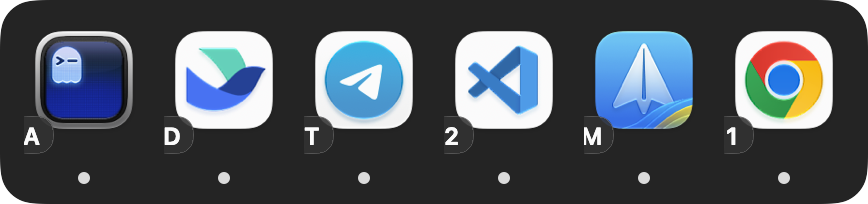
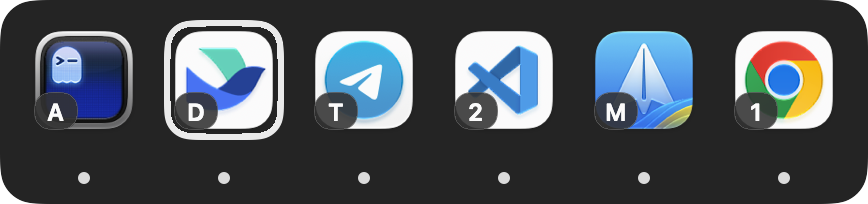
Fix App Bar key badges being clipped

diff --git a/Sources/AppBar/AppBarItemView.swift b/Sources/AppBar/AppBarItemView.swift
@@ -33,6 +33,7 @@ final class AppBarItemView: NSView {
         self.slotKey = slot.key
         super.init(frame: .zero)
         wantsLayer = true
+        layer?.masksToBounds = false
 
         iconView.image = slot.icon
         iconView.imageScaling = .scaleProportionallyUpOrDown
@@ -50,6 +51,8 @@ final class AppBarItemView: NSView {
         badgeView.layer?.backgroundColor = NSColor(white: 0.17, alpha: 0.88).cgColor
         badgeView.layer?.borderWidth = 0.5
         badgeView.layer?.borderColor = NSColor.white.withAlphaComponent(0.18).cgColor
+        // Sibling of the icon. Its frame never intersects the icon's, so the
+        // image layer cannot cover any part of it.
         addSubview(badgeView)
 
         badgeLabel.font = .systemFont(ofSize: metrics.badgeFontSize, weight: .semibold)
@@ -86,13 +89,20 @@ final class AppBarItemView: NSView {
                                 width: m.iconSize, height: m.iconSize)
 
         let badgeSize = badgeLabel.stringValue.count > 1 ? m.badgeWidthWide : m.badgeWidth
-        badgeView.frame = NSRect(x: iconView.frame.minX - m.badgeOverlap,
-                                 y: iconView.frame.minY - m.badgeOverlap,
-                                 width: badgeSize, height: m.badgeHeight)
+        // Key badge sits inside the icon's lower-left corner. It stays a
+        // sibling view fully within both the tile and icon horizontal/vertical
+        // bounds (small inset): crossing the icon's leading edge gets clipped
+        // by the image backing layer, while an in-bounds overlapping sibling
+        // composites correctly.
+        badgeView.frame = NSRect(
+            x: m.badgeInset,
+            y: iconView.frame.minY + m.badgeInset,
+            width: badgeSize, height: m.badgeHeight)
         badgeLabel.frame = NSRect(x: 0, y: (m.badgeHeight - m.badgeFontSize) / 2 - 1,
                                   width: badgeSize, height: m.badgeFontSize + 2)
         dotView.frame = NSRect(x: (bounds.width - m.dotSize) / 2, y: 0,
                                width: m.dotSize, height: m.dotSize)
+        // Badge is a child of iconView; no reordering needed.
         updateChrome()
     }
 

diff --git a/Sources/AppBar/BarMetrics.swift b/Sources/AppBar/BarMetrics.swift
@@ -23,7 +23,8 @@ struct BarMetrics {
     var badgeWidth: CGFloat { 22 * scale }
     var badgeWidthWide: CGFloat { 34 * scale }
     var badgeFontSize: CGFloat { 12 * scale }
-    var badgeOverlap: CGFloat { 7 * scale }
+    /// Key badge inset from the icon's lower-left corner.
+    var badgeInset: CGFloat { 5 * scale }
 
     static var current: BarMetrics { BarMetrics(scale: CGFloat(SettingsStore.shared.barSizeScale)) }
 
